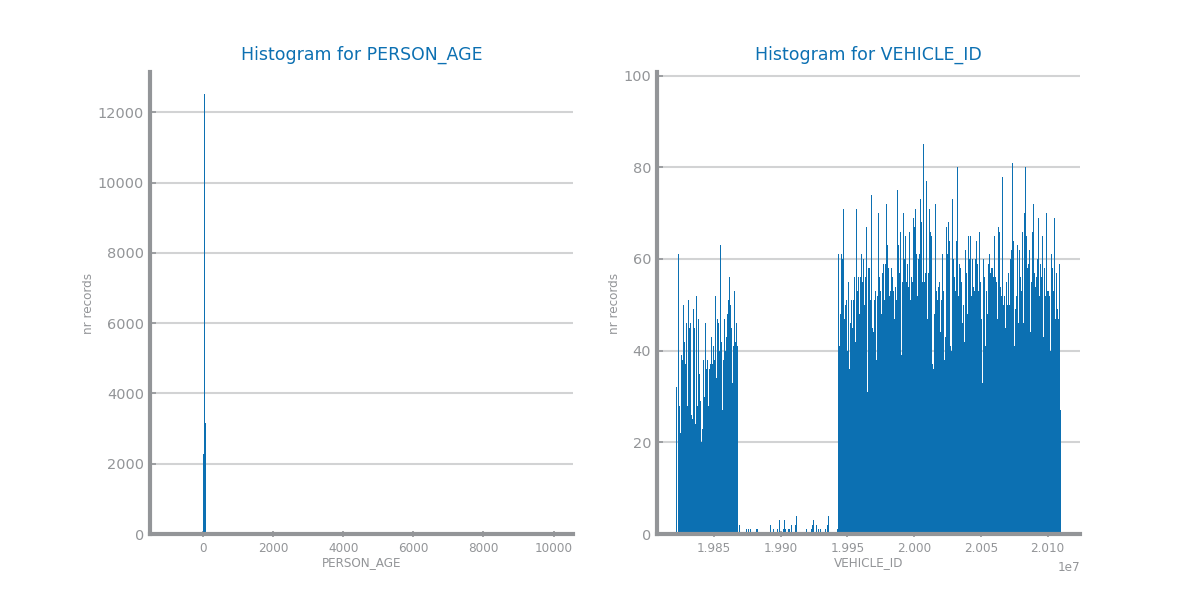
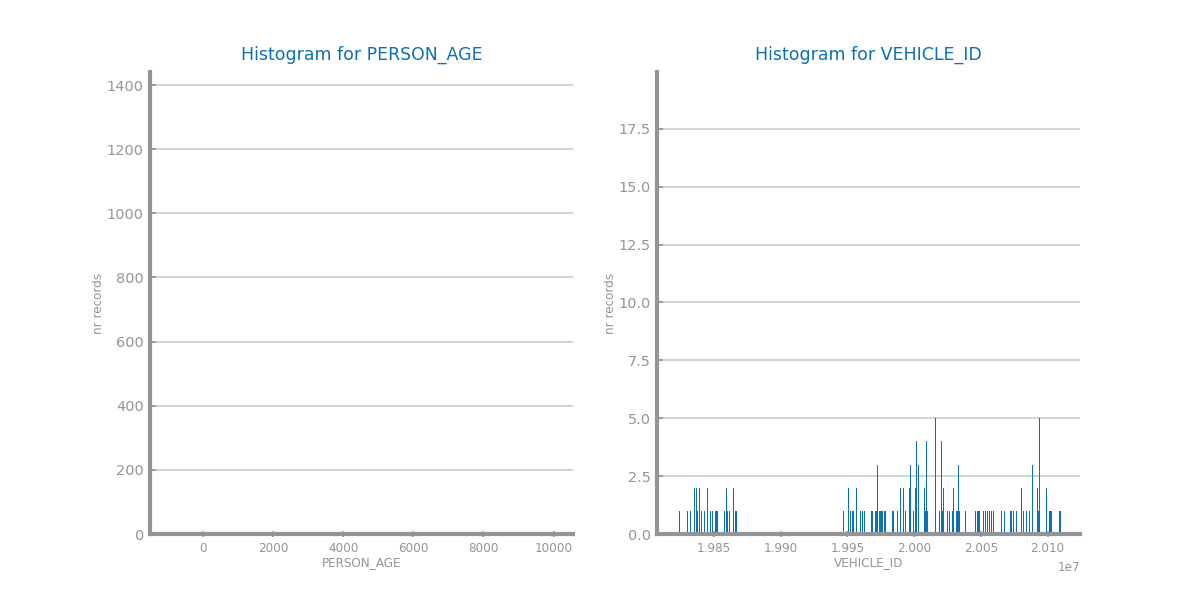
folders for images set1 and set2

diff --git a/lab02_data_preparation/set1_dummification.py b/lab02_data_preparation/set1_dummification.py
@@ -1,0 +1,48 @@
+# Dummy encode the symbolic variables. The selection of symbolic variables is hardcoded 
+# since selecting does not work. I also threw out some columns because they had to many missing values. 
+# Retry this step after completing the missing values part. 
+
+from pandas import read_csv
+from pandas.plotting import register_matplotlib_converters
+
+register_matplotlib_converters()
+file = 'set1_NYC_collisions_tabular'
+filename = 'lab01_data_profiling\data\set1_NYC_collisions_tabular.csv'
+data = read_csv(filename, index_col='CRASH_DATE', na_values='', parse_dates=True, infer_datetime_format=True)
+
+# Drop out all records with missing values
+# This leaves no records at all. First drop columns with lot of empty cells. 
+data = data.drop(['PED_LOCATION', 'CONTRIBUTING_FACTOR_2', 'CONTRIBUTING_FACTOR_1', 'PED_ACTION'], axis=1)
+data.dropna(inplace=True)
+
+from pandas import DataFrame, concat
+#from ds_charts import get_variable_types
+from sklearn.preprocessing import OneHotEncoder
+from numpy import number
+
+def dummify(df, vars_to_dummify):
+    other_vars = [c for c in df.columns if not c in vars_to_dummify]
+    encoder = OneHotEncoder(handle_unknown='ignore', sparse=False, dtype=bool)
+    X = df[vars_to_dummify]
+    encoder.fit(X)
+    new_vars = encoder.get_feature_names(vars_to_dummify)
+    trans_X = encoder.transform(X)
+    dummy = DataFrame(trans_X, columns=new_vars, index=X.index)
+    dummy = dummy.convert_dtypes(convert_boolean=True)
+
+    final_df = concat([df[other_vars], dummy], axis=1)
+    return final_df
+
+#variables = get_variable_types(data)
+#symbolic_vars = variables['Symbolic']
+
+print(data.info())
+#symbolic_vars = ['BODILY_INJURY', 'SAFETY_EQUIPMENT', 'PERSON_SEX', 'PERSON_TYPE', 'PED_LOCATION', 'CONTRIBUTING_FACTOR_2', 'EJECTION', 'COMPLAINT', 'EMOTIONAL_STATUS', 'CONTRIBUTING_FACTOR_1', 'POSITION_IN_VEHICLE', 'PED_ROLE', 'PED_ACTION', 'PERSON_INJURY']
+symbolic_vars = ['BODILY_INJURY', 'SAFETY_EQUIPMENT', 'PERSON_SEX', 'PERSON_TYPE', 'EJECTION', 'COMPLAINT', 'EMOTIONAL_STATUS', 'POSITION_IN_VEHICLE', 'PED_ROLE', 'PERSON_INJURY']
+
+
+print(symbolic_vars)
+df = dummify(data, symbolic_vars)
+df.to_csv(f'lab02_data_preparation\data\{file}_dummified.csv', index=False)
+
+df.describe(include=[bool])

diff --git a/lab02_data_preparation/set2_dummification.py b/lab02_data_preparation/set2_dummification.py
@@ -1,0 +1,46 @@
+# Dummy encode the symbolic variables. The selection of symbolic variables is hardcoded 
+# since selecting does not work. I also threw out some columns because they had to many missing values. 
+# Retry this step after completing the missing values part. 
+
+from pandas import read_csv
+from pandas.plotting import register_matplotlib_converters
+
+register_matplotlib_converters()
+file = 'set2_air_quality_tabular'
+filename = 'lab01_data_profiling\data\set2_air_quality_tabular.csv'
+data = read_csv(filename, index_col='date', na_values='', parse_dates=True, infer_datetime_format=True)
+
+# Drop out all records with missing values
+# This leaves no records at all. First drop columns with lot of empty cells. 
+# data = data.drop(['PED_LOCATION', 'CONTRIBUTING_FACTOR_2', 'CONTRIBUTING_FACTOR_1', 'PED_ACTION'], axis=1)
+data.dropna(inplace=True)
+
+from pandas import DataFrame, concat
+#from ds_charts import get_variable_types
+from sklearn.preprocessing import OneHotEncoder
+from numpy import number
+
+def dummify(df, vars_to_dummify):
+    other_vars = [c for c in df.columns if not c in vars_to_dummify]
+    encoder = OneHotEncoder(handle_unknown='ignore', sparse=False, dtype=bool)
+    X = df[vars_to_dummify]
+    encoder.fit(X)
+    new_vars = encoder.get_feature_names(vars_to_dummify)
+    trans_X = encoder.transform(X)
+    dummy = DataFrame(trans_X, columns=new_vars, index=X.index)
+    dummy = dummy.convert_dtypes(convert_boolean=True)
+
+    final_df = concat([df[other_vars], dummy], axis=1)
+    return final_df
+
+#variables = get_variable_types(data)
+#symbolic_vars = variables['Symbolic']
+
+print(data.info())
+symbolic_vars = ['City_EN', 'Prov_EN', 'ALARM']
+
+print(symbolic_vars)
+df = dummify(data, symbolic_vars)
+df.to_csv(f'lab02_data_preparation\data\{file}_dummified.csv', index=False)
+
+df.describe(include=[bool])

diff --git a/lab01_data_profiling/set1_data_granularity.py b/lab01_data_profiling/set1_data_granularity.py
@@ -18,7 +18,7 @@ for n in range(len(variables)):
     axs[i, j].set_title('Histogram for %s'%variables[n])
     axs[i, j].set_xlabel(variables[n])
     axs[i, j].set_ylabel('nr records')
-    axs[i, j].hist(data[variables[n]].values, bins=1000)
+    axs[i, j].hist(data[variables[n]].values, bins=100000)
     i, j = (i + 1, 0) if (n+1) % cols == 0 else (i, j + 1)
 savefig('lab01_data_profiling\images\granularity_single_set1.png')
 show()
